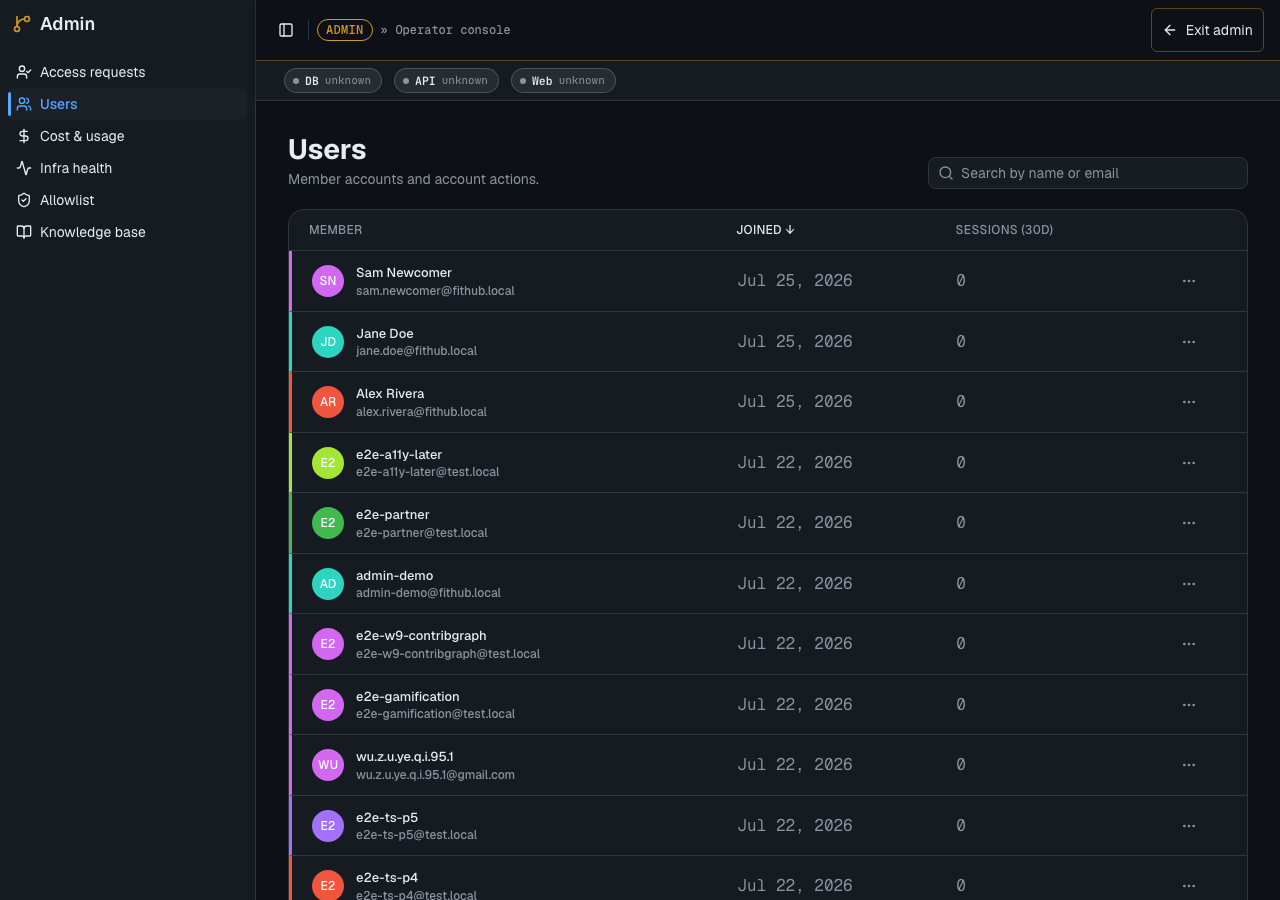
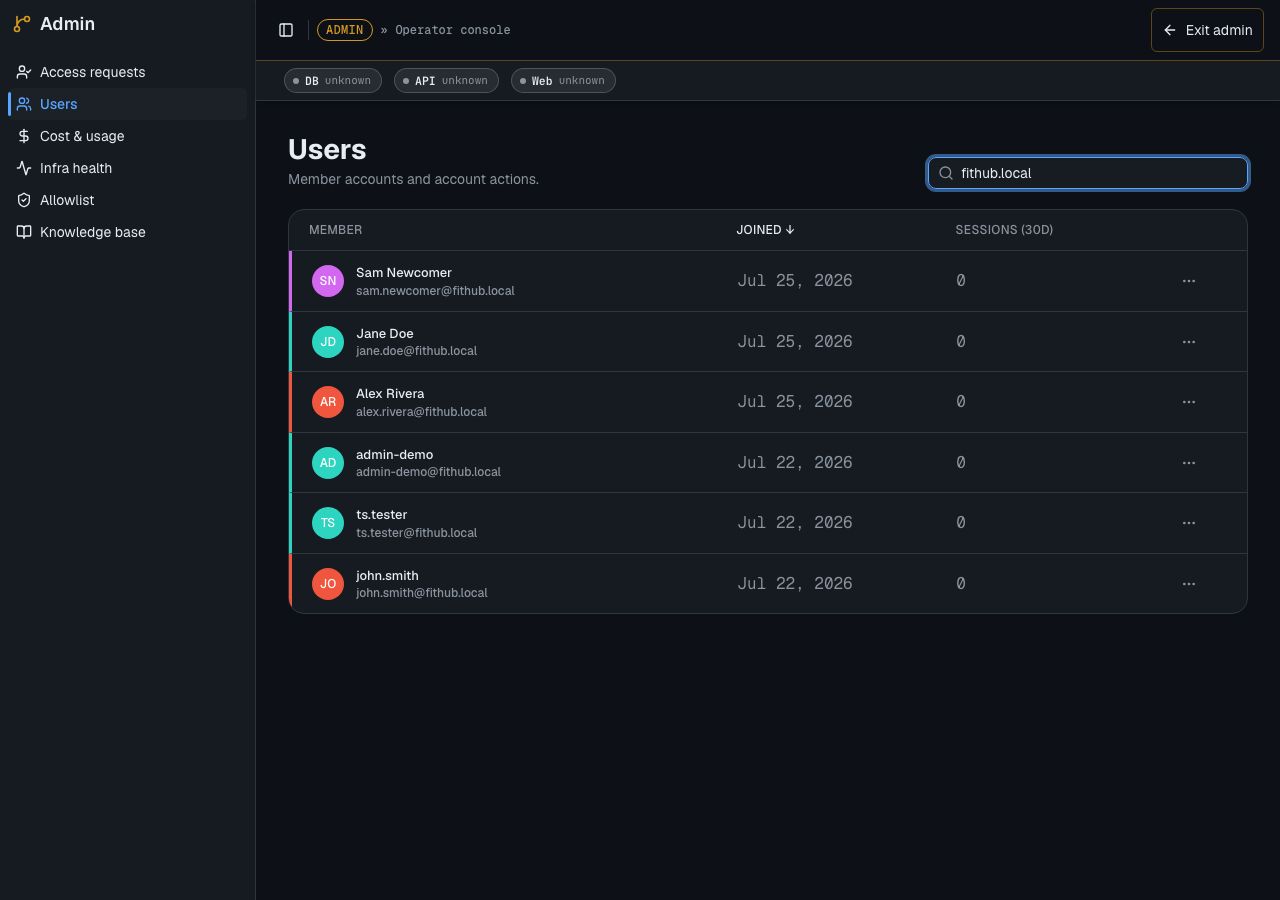
fix: re-shoot 3 README screenshots that exposed dev-only artifacts
The full redesign screenshot campaign captured honest local-dev states
for coach-chat, plan-detail, and admin-users, but three of the curated
README picks read poorly for a portfolio audience: the coach screen
showed the literal STUB_LLM disclaimer text, the plan detail page
showed a visible "STUB" badge on its adaptation card, and the admin
users table was dominated by leftover e2e-test-fixture rows.

Re-captures each via a real product interaction instead of fabricating
data: the coach shot uses the empty-composer state (still shows real
conversation history, no stub text visible), the plan shot generates a
fresh plan with no adaptation record yet, and the admin shot uses the
page's own search field to filter to the intentional demo accounts.

diff --git a/apps/web/e2e/fix-readme-screenshots.ts b/apps/web/e2e/fix-readme-screenshots.ts
@@ -1,0 +1,170 @@
+/**
+ * Targeted re-capture for 3 curated README screenshots that came out of the
+ * full redesign campaign in a visibly dev-artifact state:
+ *   - coach-chat.png: showed the literal STUB_LLM disclaimer text
+ *   - plan-detail.png: showed a visible "STUB" badge on the adaptation card
+ *   - admin-users.png: dominated by leftover e2e-test-fixture rows
+ *
+ * Reuses the same login pattern as take-redesign-screenshots.ts (password
+ * grant -> context.addCookies()) but keeps the token in-process only, never
+ * printed to stdout or written to a file — this script's whole reason to
+ * exist is avoiding that.
+ *
+ * Run against the temporary admin-enabled API on :8001 / web on :3002 set up
+ * for this fix (see chat history) — NEXT_PUBLIC_API_URL=http://localhost:8001
+ * is baked into that web process already, so this script only talks to
+ * localhost:3002 for pages and :54321/:8001 for auth/seeding.
+ *
+ *   node e2e/fix-readme-screenshots.ts   (run from apps/web — Node 22+ strips
+ *                                         TypeScript types natively, no
+ *                                         ts-node/tsx needed)
+ */
+
+import { chromium } from "@playwright/test";
+import * as path from "path";
+
+const SUPABASE_URL = "http://127.0.0.1:54321";
+const ANON_KEY =
+  "eyJhbGciOiJIUzI1NiIsInR5cCI6IkpXVCJ9.eyJpc3MiOiJzdXBhYmFzZS1kZW1vIiwicm9sZSI6ImFub24iLCJleHAiOjE5ODM4MTI5OTZ9.CRXP1A7WOeoJeXxjNni43kdQwgnWNReilDMblYTn_I0";
+
+const API_URL = "http://localhost:8001";
+const BASE_URL = "http://localhost:3002";
+const README_DIR = path.join(
+  import.meta.dirname,
+  "../../..",
+  "screenshots",
+  "readme",
+);
+
+const EMAIL = "alex.rivera@fithub.local";
+const PASSWORD = "DemoFitHub!2026";
+
+async function main(): Promise<void> {
+  const res = await fetch(`${SUPABASE_URL}/auth/v1/token?grant_type=password`, {
+    method: "POST",
+    headers: { apikey: ANON_KEY, "Content-Type": "application/json" },
+    body: JSON.stringify({ email: EMAIL, password: PASSWORD }),
+  });
+  if (!res.ok) throw new Error(`auth failed: ${res.status}`);
+  const session = await res.json();
+  const token: string = session.access_token;
+
+  const browser = await chromium.launch({ headless: true });
+  const context = await browser.newContext({
+    viewport: { width: 1280, height: 900 },
+  });
+
+  const encoded =
+    "base64-" + Buffer.from(JSON.stringify(session)).toString("base64url");
+  await context.addCookies([
+    {
+      name: "sb-localhost-auth-token",
+      value: encoded,
+      domain: "localhost",
+      path: "/",
+      httpOnly: false,
+      secure: false,
+      sameSite: "Lax",
+    },
+  ]);
+
+  const page = await context.newPage();
+
+  // ── 1. Coach — empty composer state, no message sent, so the STUB_LLM
+  //      disclaimer text never appears. Still shows the real chat UI.
+  await page.goto(`${BASE_URL}/coach`, { waitUntil: "networkidle" });
+  await page.waitForTimeout(600);
+  await page.screenshot({
+    path: path.join(README_DIR, "coach-chat.png"),
+    fullPage: false,
+  });
+  console.log("  📸 coach-chat.png (empty composer, no stub text)");
+
+  // ── 2. Plan detail — the existing seeded plan has a STUB-labeled pending
+  //      adaptation baked in (dismiss/apply both leave the STUB badge and/or
+  //      add an "already resolved" error line, since the badge reflects the
+  //      adaptation record's own data, not a dismissable UI state). Create a
+  //      fresh second plan instead, which has no adaptation yet, for a clean
+  //      shot — a real product flow (generating a plan), not fabricated data.
+  const start = new Date(Date.now() - 3 * 86400 * 1000);
+  const startDate = `${start.getFullYear()}-${String(
+    start.getMonth() + 1,
+  ).padStart(2, "0")}-${String(start.getDate()).padStart(2, "0")}`;
+  const createRes = await fetch(`${API_URL}/api/v1/plans`, {
+    method: "POST",
+    headers: {
+      Authorization: `Bearer ${token}`,
+      "Content-Type": "application/json",
+    },
+    body: JSON.stringify({
+      archetype: "general-crossfit",
+      title: "Hybrid Strength & Conditioning — 8 Weeks",
+      start_date: startDate,
+      weeks: 8,
+      training_age: "intermediate",
+      equipment: ["barbell", "pull-up bar", "kettlebell"],
+      days_per_week: 5,
+    }),
+  });
+  let planId: string | null = null;
+  if (createRes.ok) {
+    const task = (await createRes.json()) as { task_id: string };
+    const deadline = Date.now() + 30_000;
+    while (Date.now() < deadline) {
+      await new Promise((r) => setTimeout(r, 1500));
+      const pollRes = await fetch(
+        `${API_URL}/api/v1/plans/tasks/${task.task_id}`,
+        {
+          headers: { Authorization: `Bearer ${token}` },
+        },
+      );
+      if (!pollRes.ok) continue;
+      const poll = (await pollRes.json()) as {
+        status: string;
+        plan_id?: string;
+      };
+      if (poll.status === "complete" && poll.plan_id) {
+        planId = poll.plan_id;
+        break;
+      }
+      if (poll.status === "failed") break;
+    }
+  }
+
+  if (planId) {
+    await page.goto(`${BASE_URL}/plan/${planId}`, { waitUntil: "networkidle" });
+    await page.waitForTimeout(600);
+    await page.screenshot({
+      path: path.join(README_DIR, "plan-detail.png"),
+      fullPage: false,
+    });
+    console.log("  📸 plan-detail.png (fresh plan, no adaptation record)");
+  } else {
+    console.warn(
+      "  ⚠ fresh plan generation failed — plan-detail.png left as-is",
+    );
+  }
+
+  // ── 3. Admin users — use the real search field to filter down to the
+  //      intentional demo accounts, rather than showing raw e2e-test noise.
+  await page.goto(`${BASE_URL}/admin/users`, { waitUntil: "networkidle" });
+  await page.waitForTimeout(600);
+  const search = page.getByPlaceholder(/search by name or email/i);
+  if (await search.isVisible().catch(() => false)) {
+    await search.fill("fithub.local");
+    await page.waitForTimeout(400);
+  }
+  await page.screenshot({
+    path: path.join(README_DIR, "admin-users.png"),
+    fullPage: false,
+  });
+  console.log("  📸 admin-users.png (filtered to demo accounts)");
+
+  await browser.close();
+  console.log("\n✅ Fixed 3 README screenshots.");
+}
+
+main().catch((err) => {
+  console.error(err);
+  process.exit(1);
+});
